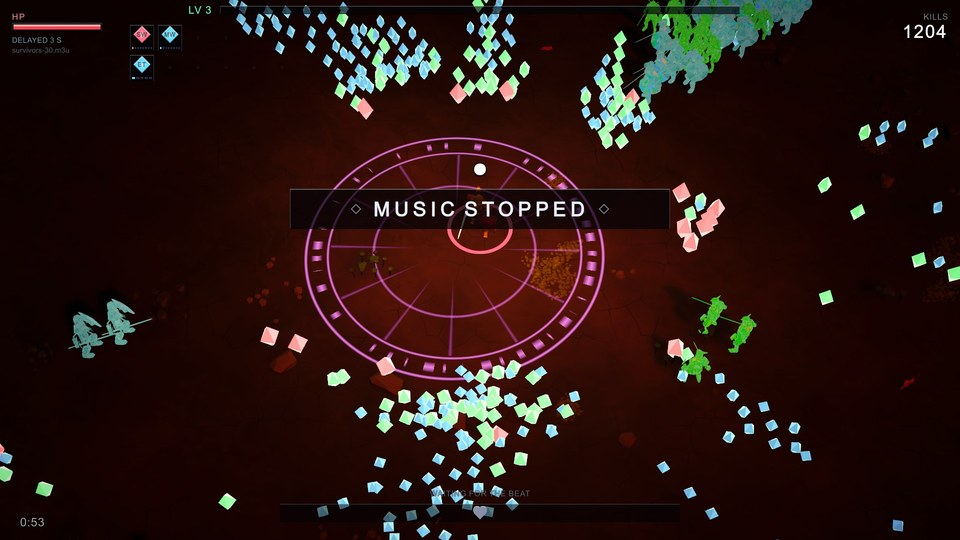
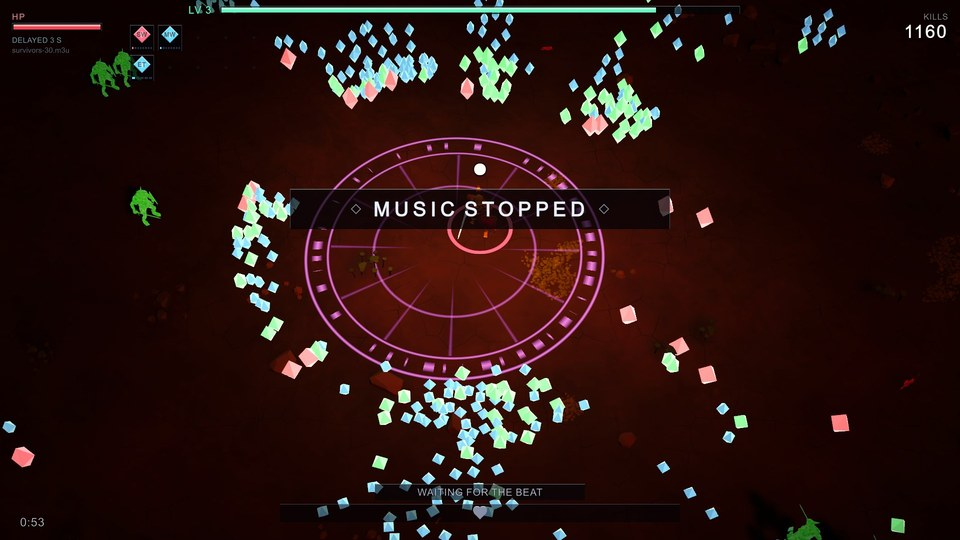
fix(game): the end card stops a weapon's time held when it evolves away, damage numbers take due hits in one pass, and WAITING FOR THE BEAT reads over the run (ps-msz.6.20)

diff --git a/game/Assets/Game/Client/Hud/EndCard.cs b/game/Assets/Game/Client/Hud/EndCard.cs
@@ -44,8 +44,8 @@ namespace Game.Client.Hud
         }
 
         /// <param name="final">The sim's state at the frontier, past the end: the arsenal and its damage as they ended.</param>
-        /// <param name="heldFrom">When each weapon joined the slots, on the run clock (NaN never).</param>
-        public void Present(double s, in SimSnapshot state, int kills, SimState final, double[] heldFrom)
+        /// <param name="held">How long each weapon was held.</param>
+        public void Present(double s, in SimSnapshot state, int kills, SimState final, HeldTimes held)
         {
             bool shows = (_why == RunEnd.Victory || _why == RunEnd.Death) && s + 1e-9 >= _endedAt;
             _layer.style.display = shows ? DisplayStyle.Flex : DisplayStyle.None;
@@ -58,10 +58,10 @@ namespace Game.Client.Hud
             _title.style.color = colour;
             _edge.style.backgroundColor = colour;
             _stats.text = $"TIME {HudText.Clock(state.RunClock)}   ·   KILLS {kills}   ·   LEVEL {Math.Max(1, state.Level)}";
-            if (_content != null) Rows(state.RunClock, final, heldFrom);
+            if (_content != null) Rows(state.RunClock, final, held);
         }
 
-        void Rows(double runClock, SimState final, double[] heldFrom)
+        void Rows(double runClock, SimState final, HeldTimes times)
         {
             var damage = final.WeaponDamage;
             var order = new System.Collections.Generic.List<int>();
@@ -75,7 +75,7 @@ namespace Game.Client.Hud
                 int i = order[r];
                 var def = _content.Weapons[i];
                 double dealt = (i < damage.Length ? damage[i] : 0) * HudText.DamageScale;
-                double held = i < heldFrom.Length && !double.IsNaN(heldFrom[i]) ? runClock - heldFrom[i] : 0;
+                double held = times.Of(i, runClock);
                 var tint = def.IsEvolution ? new Color(1f, 0.83f, 0.4f) : new Color(0.8f, 0.88f, 1f);
                 var row = SlotsView.Element("end__row");
                 row.AddToClassList(r % 2 == 0 ? "end__row--even" : "end__row--odd");
@@ -95,6 +95,47 @@ namespace Game.Client.Hud
                 row.Add(share);
                 _rows.Add(row);
             }
+        }
+    }
+
+    /// <summary>
+    /// How long each weapon was held on the run clock (native's eval/recap.rs): from when it joins
+    /// the slots until it leaves them, evolved away; a rank up doesn't restart it.
+    /// </summary>
+    public sealed class HeldTimes
+    {
+        readonly double[] _since, _held;
+
+        public HeldTimes(int weapons)
+        {
+            _since = new double[weapons];
+            _held = new double[weapons];
+            for (int i = 0; i < weapons; i++) _since[i] = double.NaN;
+        }
+
+        /// <summary>The slots as they are at <paramref name="runClock"/>.</summary>
+        public void Update(ReadOnlySpan<OwnedItem> slots, double runClock)
+        {
+            for (int i = 0; i < _since.Length; i++)
+            {
+                if (double.IsNaN(_since[i]) || Holds(slots, i)) continue;
+                _held[i] += Math.Max(0, runClock - _since[i]);
+                _since[i] = double.NaN;
+            }
+            foreach (var slot in slots)
+                if (slot.Index < _since.Length && double.IsNaN(_since[slot.Index])) _since[slot.Index] = runClock;
+        }
+
+        /// <summary>How long weapon <paramref name="weapon"/> was held by <paramref name="runClock"/> (s).</summary>
+        public double Of(int weapon, double runClock) =>
+            weapon < 0 || weapon >= _held.Length ? 0
+            : _held[weapon] + (double.IsNaN(_since[weapon]) ? 0 : Math.Max(0, runClock - _since[weapon]));
+
+        static bool Holds(ReadOnlySpan<OwnedItem> slots, int weapon)
+        {
+            foreach (var slot in slots)
+                if (slot.Index == weapon) return true;
+            return false;
         }
     }
 }

diff --git a/game/Assets/Game/Client/Hud/HudPresenter.cs b/game/Assets/Game/Client/Hud/HudPresenter.cs
@@ -49,7 +49,7 @@ namespace Game.Client.Hud
         readonly BeatGem _gem;
         readonly Queue<double> _deaths = new Queue<double>();
         readonly List<double> _bites = new List<double>();
-        readonly double[] _heldFrom;
+        readonly HeldTimes _held;
         int _killCount;
         double _bitten = double.NegativeInfinity;
 
@@ -85,8 +85,7 @@ namespace Game.Client.Hud
             _end = new EndCard(root.Q("end-layer"), content);
             _numbers = new DamageNumbers(root.Q("numbers"), camera);
             _gem = new BeatGem(camera);
-            _heldFrom = new double[content?.Weapons.Length ?? 0];
-            for (int i = 0; i < _heldFrom.Length; i++) _heldFrom[i] = double.NaN;
+            _held = new HeldTimes(content?.Weapons.Length ?? 0);
         }
 
         public void OnEvent(in SimEvent e)
@@ -146,7 +145,7 @@ namespace Game.Client.Hud
             _hpPulse.style.opacity = health < LowHealth ? (float)(0.2 + 0.5 * (locked ? hit : 0.3)) : 0;
             _kills.text = _killCount.ToString();
             _timer.text = HudText.Clock(state.RunClock);
-            KeepHeld(state.RunClock);
+            _held.Update(_sim.State.WeaponSlots, state.RunClock);
             _slots.Show(_sim.State.WeaponSlots, _sim.State.PassiveSlots);
             _track.Show(_sim.Stream, _sim.Beats, s, beat, locked);
             _prompt.text = state.Phase != RunPhase.Waiting ? "" : _interactive ? "PRESS ENTER OR SPACE" : "THE RUN STARTS ON THE BEAT";
@@ -160,7 +159,7 @@ namespace Game.Client.Hud
 
             _cards.Present(s, state.Offer, _sim.State);
             _chest.Present(s, _sim, beat);
-            _end.Present(s, state, _killCount, _sim.State, _heldFrom);
+            _end.Present(s, state, _killCount, _sim.State, _held);
 
             double hx, hy;
             if (DrawnHero != null) DrawnHero(out hx, out hy, out _);
@@ -169,13 +168,6 @@ namespace Game.Client.Hud
             // The overhead display comes in over the run's first two seconds and goes with the end card.
             double fade = state.Phase == RunPhase.Ended ? 0 : Smooth((state.RunClock - 0.5) / 1.5);
             _gem.Present(s, new Vector3((float)hx, 0, (float)hy), beat, locked, hit, health, bitten, (float)fade);
-        }
-
-        /// <summary>When each weapon joined the slots, on the run clock (the end card's time held).</summary>
-        void KeepHeld(double runClock)
-        {
-            foreach (var slot in _sim.State.WeaponSlots)
-                if (slot.Index < _heldFrom.Length && double.IsNaN(_heldFrom[slot.Index])) _heldFrom[slot.Index] = runClock;
         }
 
         static double Smooth(double x)

diff --git a/game/Assets/Game/Tests/EditMode/HudTests.cs b/game/Assets/Game/Tests/EditMode/HudTests.cs
@@ -101,6 +101,20 @@ namespace Game.Tests
         }
 
         [Test]
+        public void AWeaponEvolvedAwayStopsBeingHeldAndRankUpsDontRestartIt()
+        {
+            var held = new HeldTimes(3);
+            held.Update(new[] { new OwnedItem { Index = 0, Rank = 1 } }, 0);
+            held.Update(new[] { new OwnedItem { Index = 0, Rank = 8 } }, 60);
+            // At 100 s the chest evolves weapon 0 into weapon 2 in the same slot.
+            held.Update(new[] { new OwnedItem { Index = 2, Rank = 1 } }, 100);
+            held.Update(new[] { new OwnedItem { Index = 2, Rank = 1 } }, 160);
+            Assert.That(held.Of(0, 160), Is.EqualTo(100).Within(1e-9), "the base weapon stops at its evolution");
+            Assert.That(held.Of(2, 160), Is.EqualTo(60).Within(1e-9));
+            Assert.That(held.Of(1, 160), Is.EqualTo(0), "never held");
+        }
+
+        [Test]
         public void NumbersAreNativesTimesTen()
         {
             Assert.That(HudText.Damage(1), Is.EqualTo("10"));

diff --git a/game/Assets/Game/Client/Hud/DamageNumbers.cs b/game/Assets/Game/Client/Hud/DamageNumbers.cs
@@ -78,12 +78,14 @@ namespace Game.Client.Hud
 
         public void Present(double s, double heroX, double heroY)
         {
+            // One pass, keeping the hits frameSong hasn't reached: a crowded frame holds thousands.
+            int kept = 0;
             for (int i = 0; i < _pending.Count; i++)
             {
-                if (_pending[i].T > s + 1e-9) continue;
-                Merge(_pending[i]);
-                _pending.RemoveAt(i--);
+                if (_pending[i].T > s + 1e-9) _pending[kept++] = _pending[i];
+                else Merge(_pending[i]);
             }
+            _pending.RemoveRange(kept, _pending.Count - kept);
             _live.RemoveAll(n => s - n.Last >= HoldS);
             Draw(s, heroX, heroY);
         }

diff --git a/docs/design/unity-game.md b/docs/design/unity-game.md
@@ -2169,7 +2169,7 @@ drawn at frameSong, with marks in world space:
   (`BeatClock.IsDownbeat`) are taller and warm. Without a reliable beat the track empties and the
   heart greys under WAITING FOR THE BEAT. While the run waits it prompts PRESS ENTER OR SPACE.
 - **World space** (`BeatGem`, Game/HudMark on camera-facing quads, HDR for the bloom): the gem
-  floats 2.75 m over the hero's feet, drawn over everything. A ring closes on it from 0.95 m toward
+  floats 2.75 m over the hero's feet, drawn over everything. A ring closes on it from 1 m toward
   the next beat, lands on it on the beat's own frame and the gem bursts; before a downbeat the
   ring is gold and heavier, and the downbeat's burst is gold. Without a reliable beat the gem is a
   breathing pale blue disc. The life ring lies on the ground under the hero, an arc as full as its

diff --git a/game/evidence/hud/README.md b/game/evidence/hud/README.md
@@ -46,7 +46,8 @@ it, phase 0 on its own frame, and two-beat bars alternate; only beats known by t
   first two seconds).
 - [music-stopped/still-066.000.jpg](music-stopped/still-066.000.jpg) (`--at 66`): house-128 fell
   silent and the world froze at 61.675 s: the MUSIC STOPPED banner, the track waiting, the gem a
-  breathing pale disc.
+  breathing pale disc. Retaken by the HUD's Warden (ps-msz.6.20, Mono) once WAITING FOR THE BEAT
+  got its glass plate: before, it was lost in the field of gems behind it.
 - [pause/still-010.600.jpg](pause/still-010.600.jpg) (`--pause-at 10 --at 10.6`): the pause menu
   over the HUD (its PAUSED heading is the banner while it is up).
 
